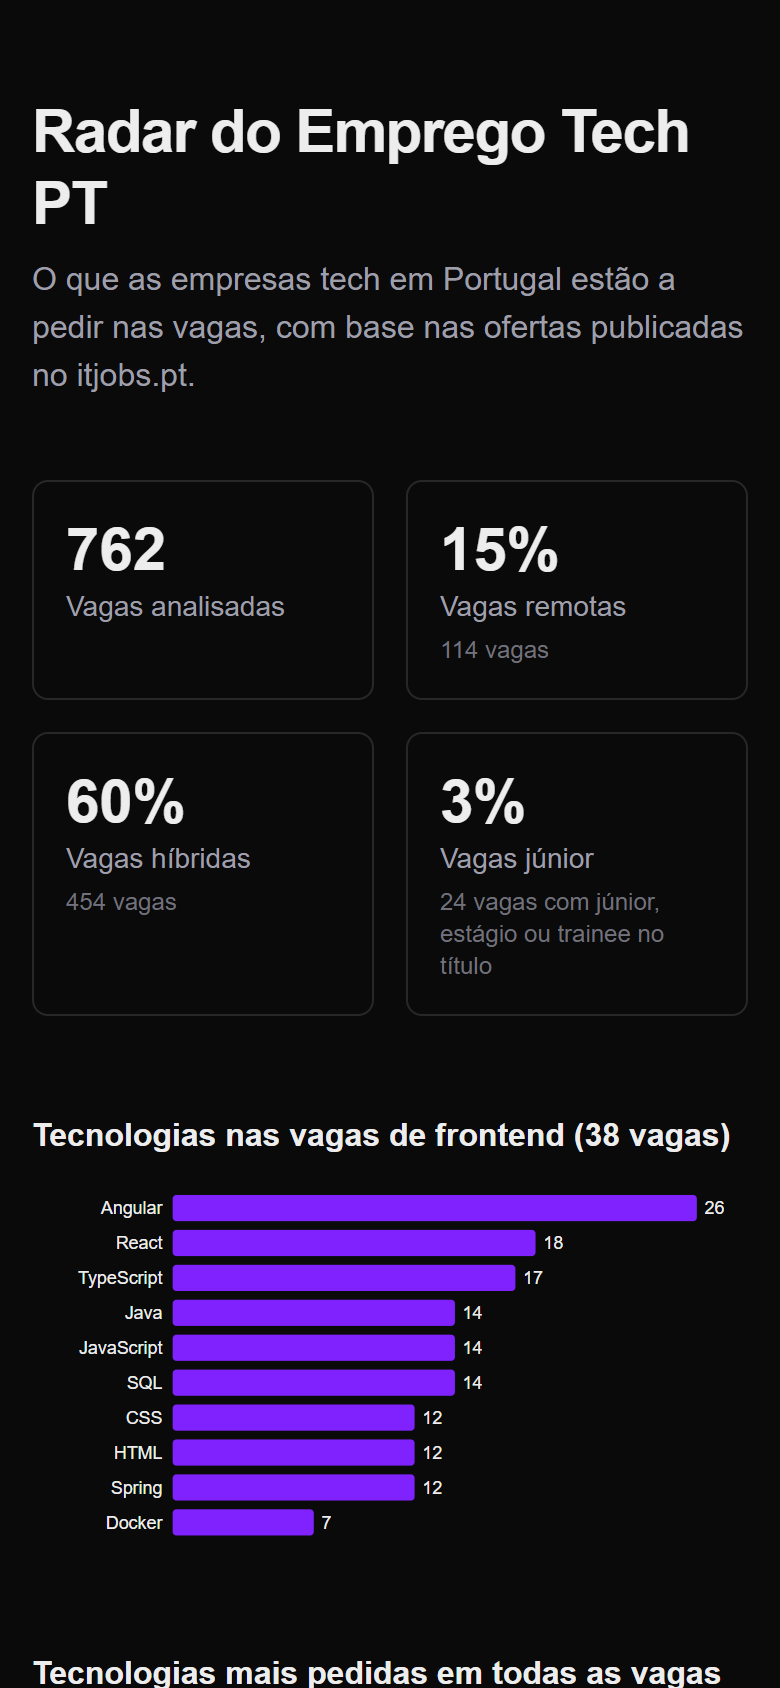
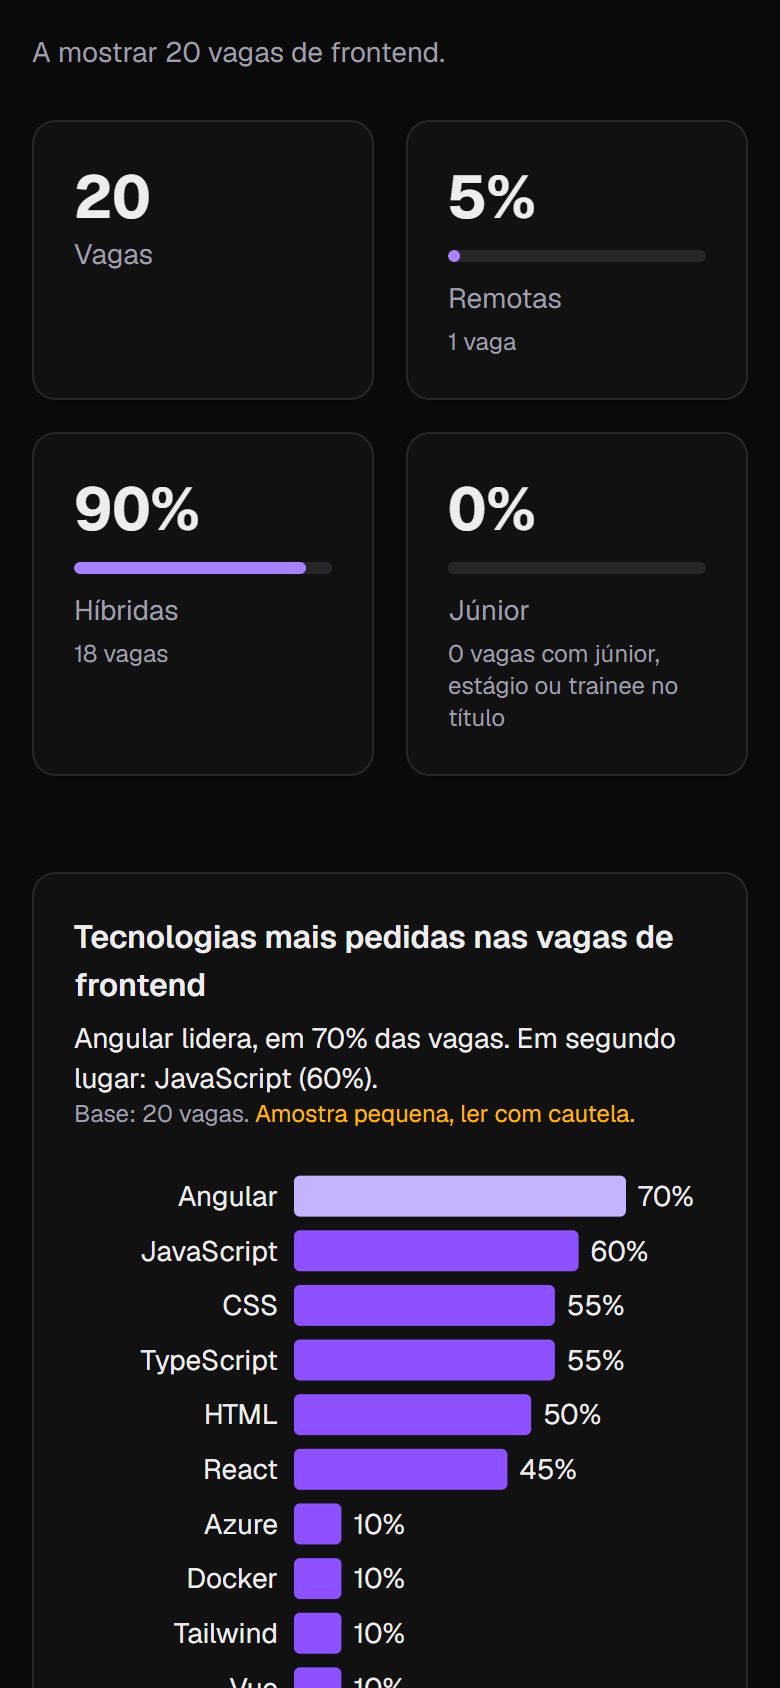
Atualiza o README e os prints com os filtros, as áreas e o novo visual

diff --git a/README.md b/README.md
@@ -1,20 +1,22 @@
 # Radar do Emprego Tech PT
 
 A dashboard that shows what tech companies in Portugal are asking for in their job ads:
-the most requested technologies, where the jobs are and how much of the work is remote, hybrid or on-site.
-It uses real, daily-updated data from the [itjobs.pt](https://www.itjobs.pt) API.
+the most requested technologies, which areas are hiring, where the jobs are and how much of the work is
+remote, hybrid or on-site. It uses real, daily-updated data from the [itjobs.pt](https://www.itjobs.pt) API.
 
 ![Dashboard on desktop](docs/screenshot-desktop.png)
 
 <p align="center">
-  <img src="docs/screenshot-mobile.png" alt="Dashboard on a phone" width="280">
+  <img src="docs/screenshot-mobile.png" alt="Dashboard on a phone, dark mode, filtered to frontend jobs" width="280">
 </p>
 
-## What it shows
+## What it does
 
-- Headline numbers: jobs analysed, share of remote, hybrid and junior roles
-- Technologies asked for in frontend roles and across all roles
-- Jobs per city and per work model
+- Filters by area (frontend, backend, fullstack, mobile, data, DevOps, QA), city and work model, plus a
+  shortcut for my own criteria. Filters live in the URL, so any view can be shared as a link.
+- Every chart opens with a one-line takeaway written from the data ("SQL lidera, em 29% das vagas…"),
+  shows percentages with the number of jobs behind them, and warns when the sample is too small to trust.
+- A "how the data is handled" section explains the rules and their limits.
 
 ## How it works
 
@@ -22,13 +24,20 @@ It uses real, daily-updated data from the [itjobs.pt](https://www.itjobs.pt) API
    for 24 hours, so the API is hit at most once a day. The API key only lives on the server.
 2. **Normalising** (`src/lib/normalize.ts`) — each job is reduced to what the dashboard needs: technologies
    (matched against a closed list, with care for look-alikes such as Java/JavaScript or React/React Native),
-   work model and whether it is a junior role.
-3. **Aggregating** (`src/lib/aggregate.ts`) — plain functions count jobs per technology, city or work model.
-4. **Drawing** (`src/components/BarChart.tsx`) — D3 computes the scales and React renders the SVG on the
-   server, so charts need no client-side JavaScript. Each chart has an accessible name, a text summary and a
-   visually hidden table with the same data.
+   area (from the title, or from the technologies when the title is generic), work model and seniority.
+3. **Aggregating** (`src/lib/aggregate.ts`, `src/lib/insights.ts`) — plain, tested functions count jobs and
+   write the takeaway sentence of each chart.
+4. **Filtering** (`src/components/Dashboard.tsx`) — the page is rendered once a day on the server; filtering
+   then happens in the browser, in React state mirrored to the URL.
+5. **Drawing** (`src/components/BarChart.tsx`) — D3 computes the scales and React renders the SVG. The chart
+   measures its own width so labels stay readable on phones.
 
-Without an API key, or if the API fails, the page falls back to sample data and says so.
+## Accessibility
+
+Lighthouse scores 100 in light and dark mode, on desktop and mobile. Beyond that it was checked by hand:
+keyboard-only use, Windows high contrast mode, a 320px wide screen and the heading structure. Each chart has
+an `h2` and a visually hidden table with the same data; filter buttons expose their state with
+`aria-pressed`, and the job count is announced to screen readers when the filters change.
 
 ## Stack
 
@@ -42,6 +51,8 @@ cp .env.example .env.local   # then add your itjobs.pt API key (https://itjobs.p
 npm run dev                  # http://localhost:3000
 npm test
 ```
+
+Without an API key, or if the API fails, the page falls back to sample data and says so.
 
 ## Data
 
